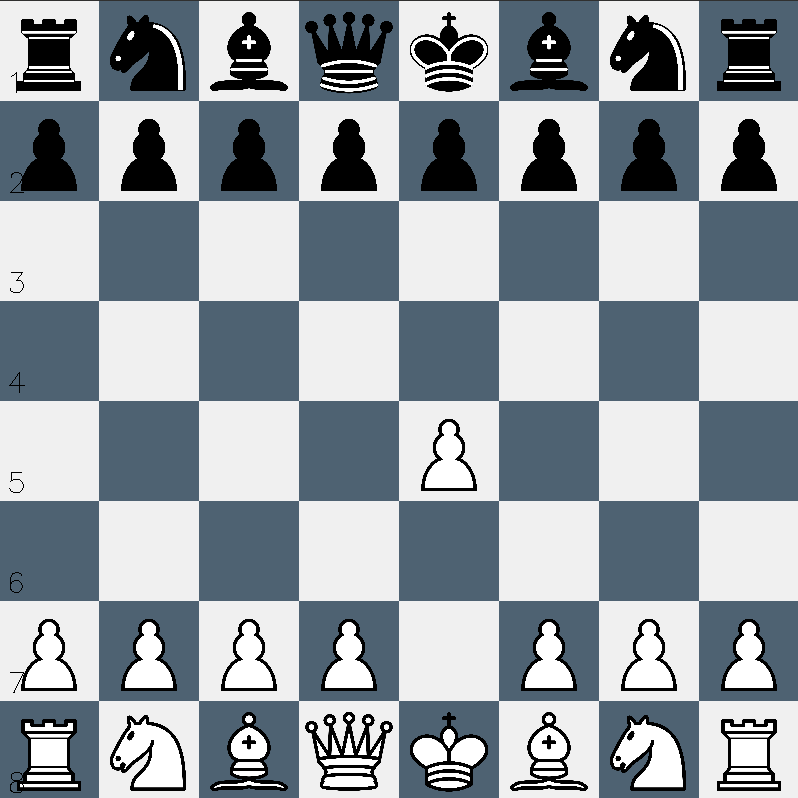
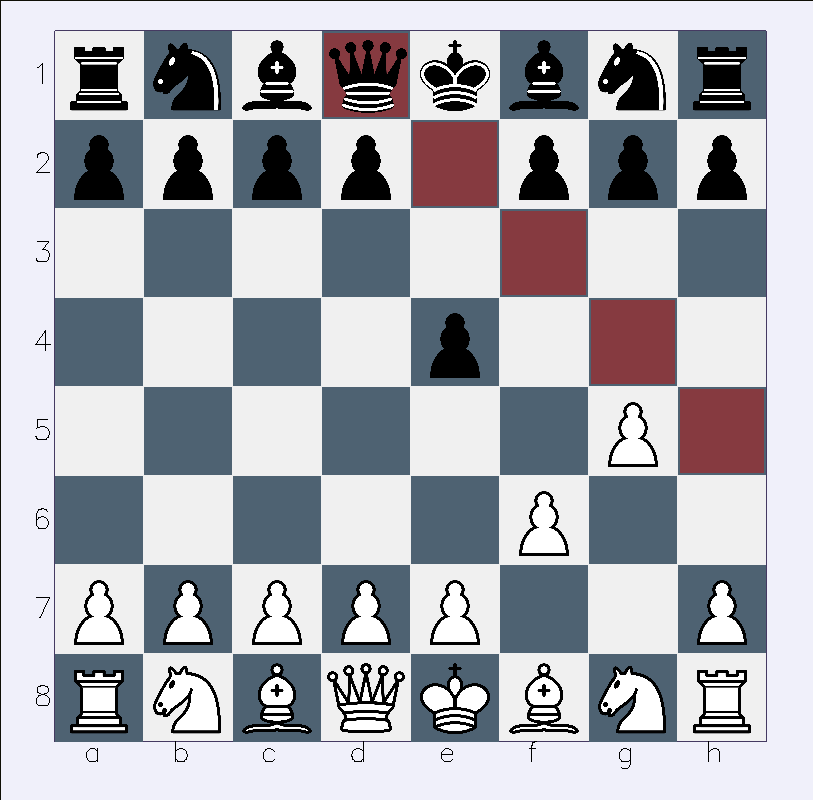
big changes to drawing the board

diff --git a/README.md b/README.md
@@ -1,3 +1,12 @@
 # chess
 
+Unfinished!!
+
+Things that need to be added:
+- check, checkmate
+- movement for the king
+- timer
+- menu
+- ability to change settings
+
 <img src="assets/example.png" alt="example" width="500"/>
